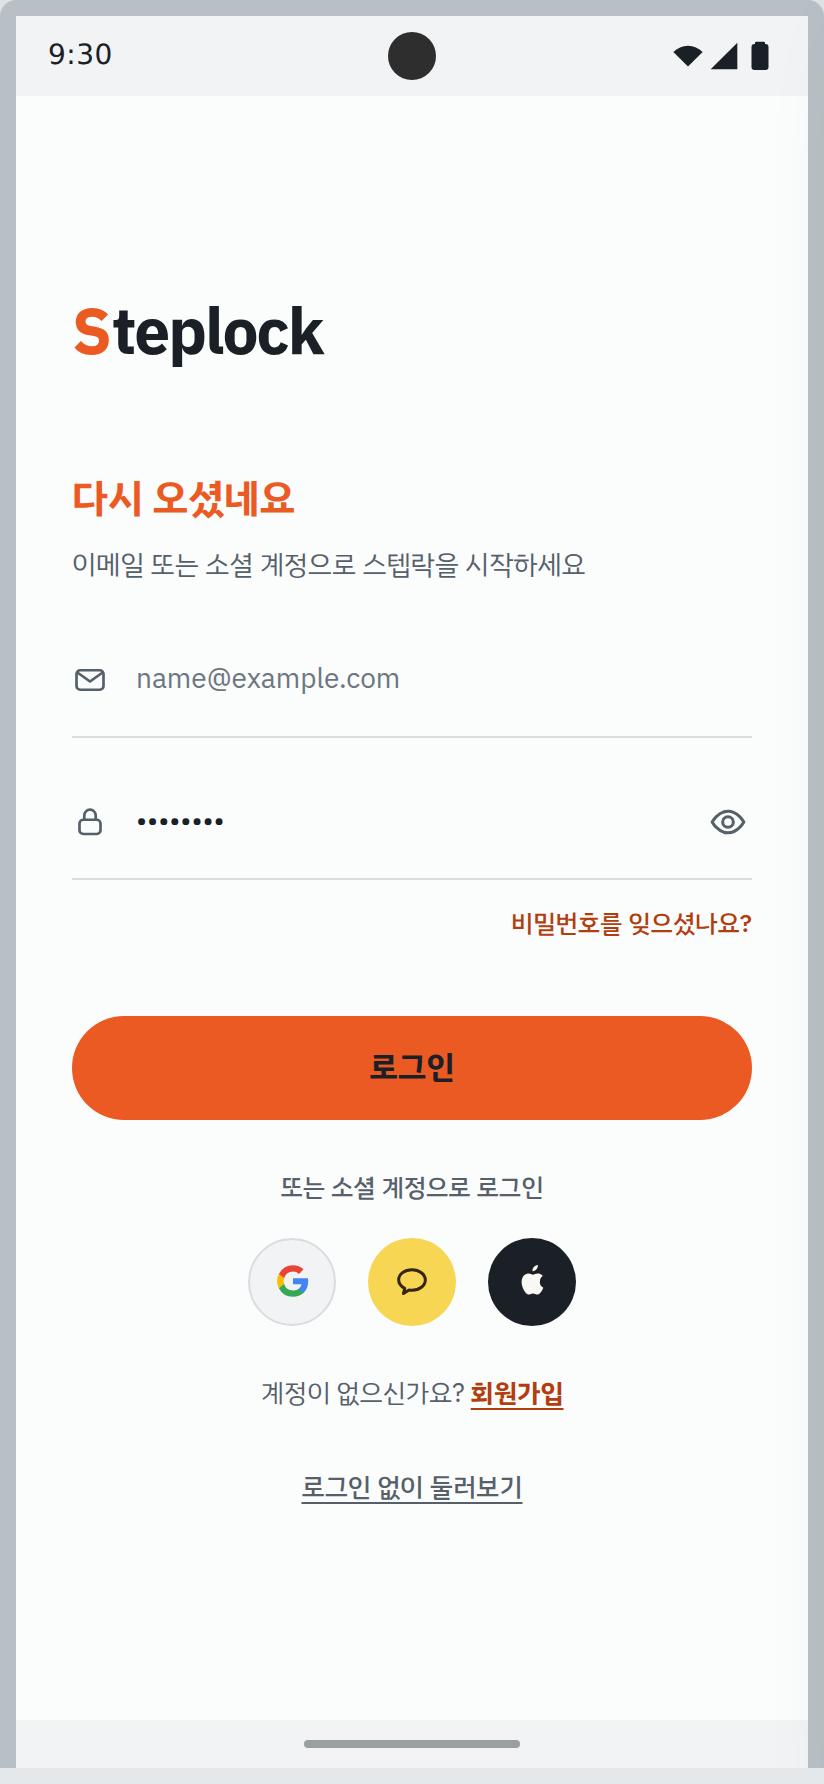
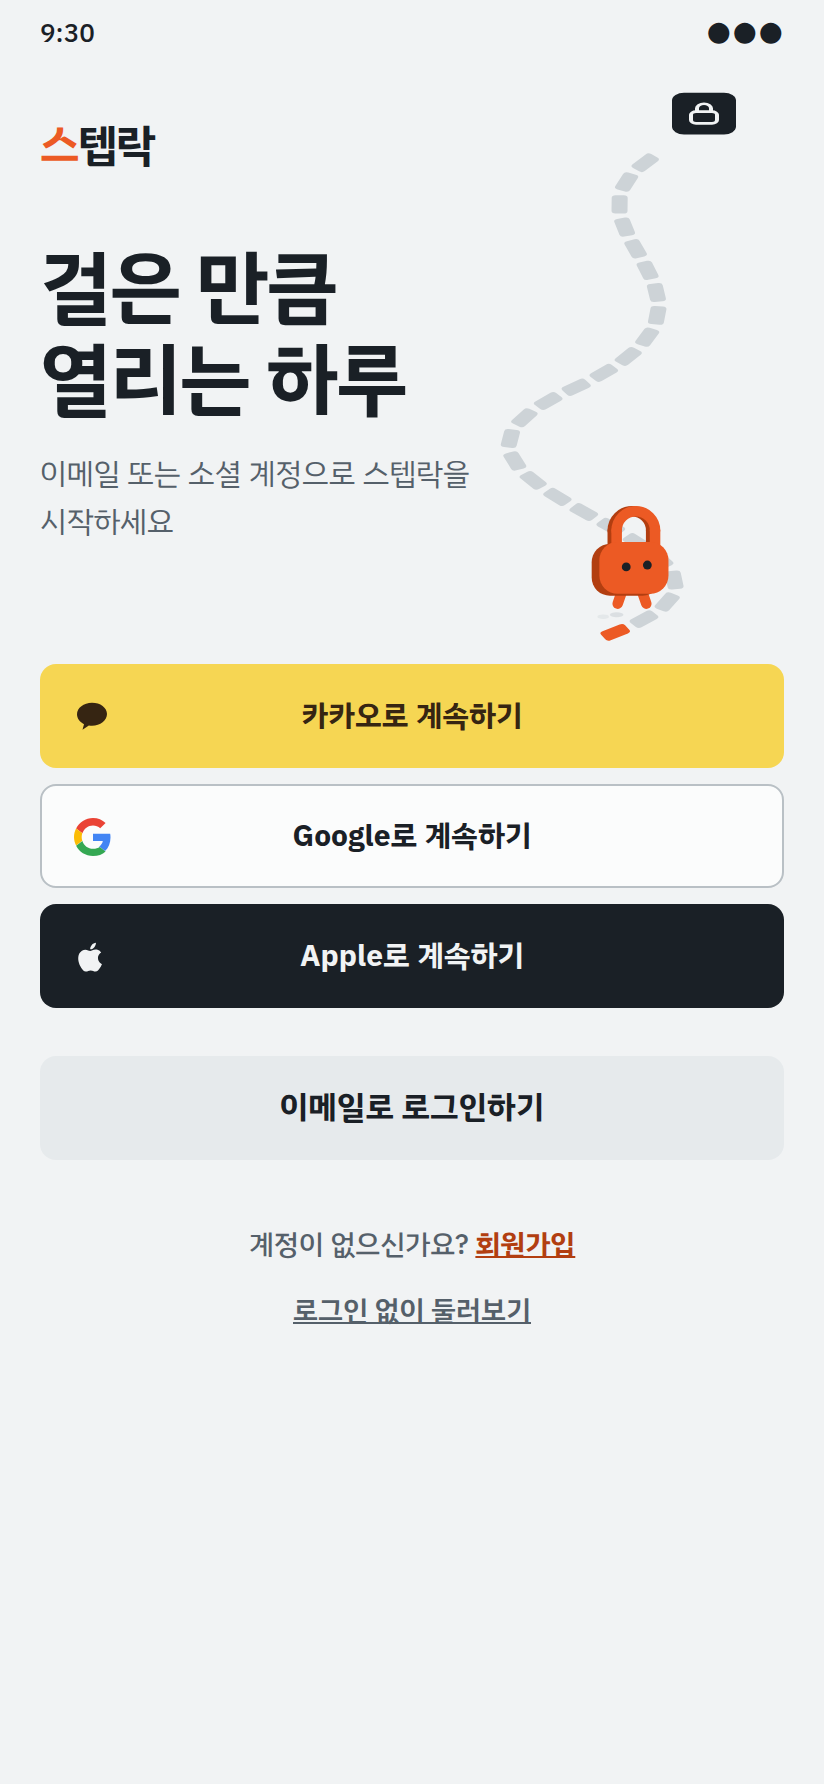
로그인·온보딩 사진과 README 설명 갱신
Claude-Session: https://claude.ai/code/session_01TfDVSB28YoT3k36WsBEoLF

diff --git a/README.md b/README.md
@@ -152,6 +152,21 @@
 새로 셉니다. 같은 앱에 머무는 동안은 잠금을 다시 띄우지 않으므로 "그 앱을 열려고 한 횟수"에
 가깝습니다.
 
+### 로그인 · 시작하기
+
+<p align="center">
+  <img src="docs/screens/01-login.png" width="30%" alt="로그인 — 등산로 입구와 소셜 버튼" />
+  <img src="docs/screens/02-onboarding.png" width="30%" alt="시작하기 — 번호 붙은 세 걸음" />
+</p>
+
+- **로그인은 등산로 입구.** 홈과 같은 길의 맨 아래에 스텝이가 서 있고, 왼쪽에 "걸은 만큼 열리는 하루".
+  가장 많이 쓰는 길인 소셜 계정을 "카카오로 계속하기"처럼 글이 적힌 가로 버튼으로 맨 위에 두고, 이메일 칸은
+  "이메일로 로그인하기"를 눌렀을 때만 그 자리에서 펼칩니다 — 첫눈에 보이는 입력 칸 · 링크가 6개에서 0개로.
+- **권한은 번호 붙은 세 걸음.** 패널 안에 같은 무게로 늘어선 세 줄 대신, 1 · 2 · 3 표식이 세로 선으로 이어지고
+  **지금 차례인 걸음 하나만** 펼쳐져 무엇을 누르면 되는지와 "화면 위 표시 허용하기" 버튼을 보여 줍니다.
+  끝난 걸음은 흑연 체크로 접힙니다. 위에서부터 버튼만 따라 누르면 끝나고, 다 끝나야 "스텝락 시작하기"가 나옵니다
+  (권한 없이 둘러보는 길은 그대로 남겨 둡니다).
+
 ### 잠금 화면 · 집중 타이머
 
 <p align="center">
